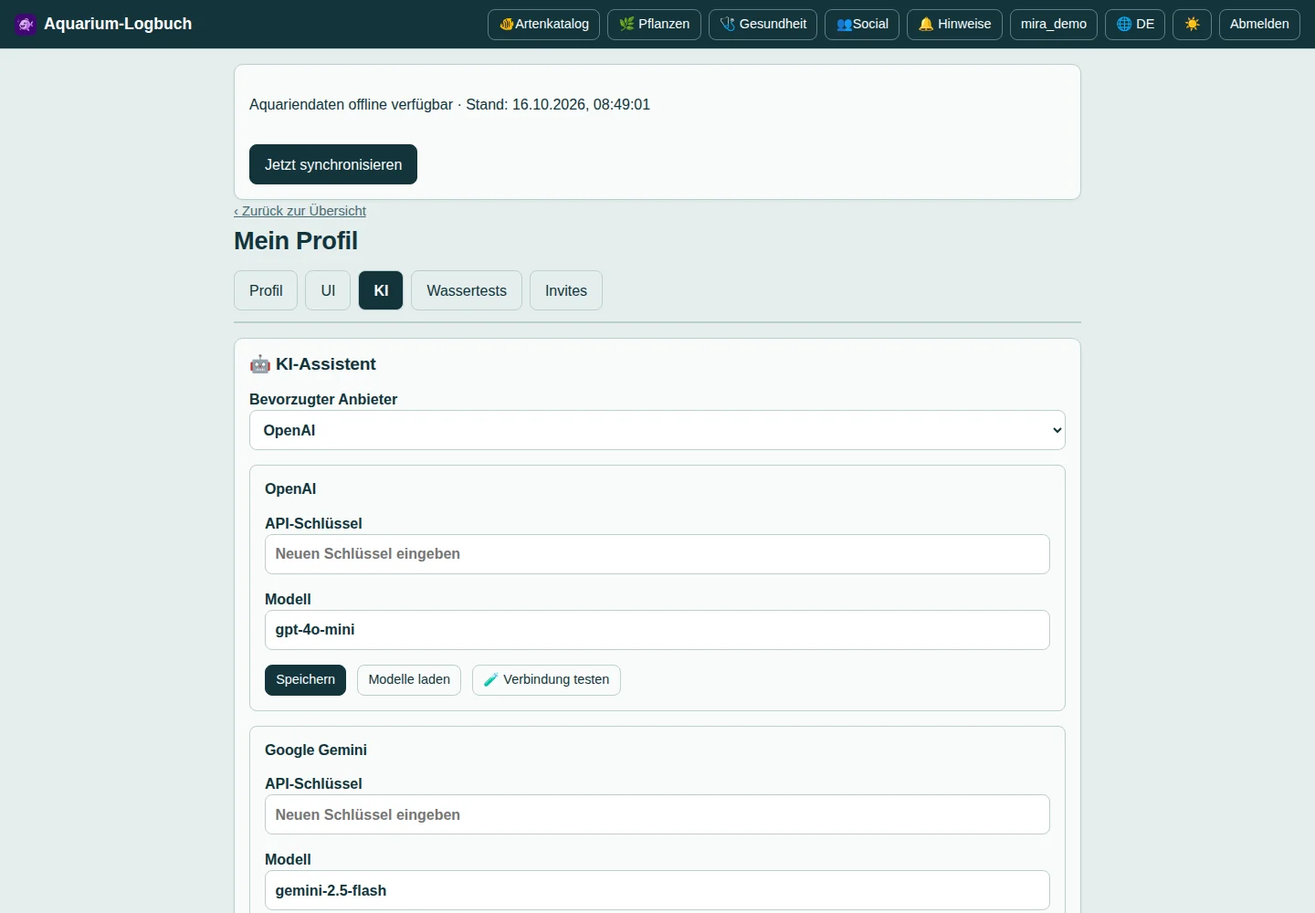
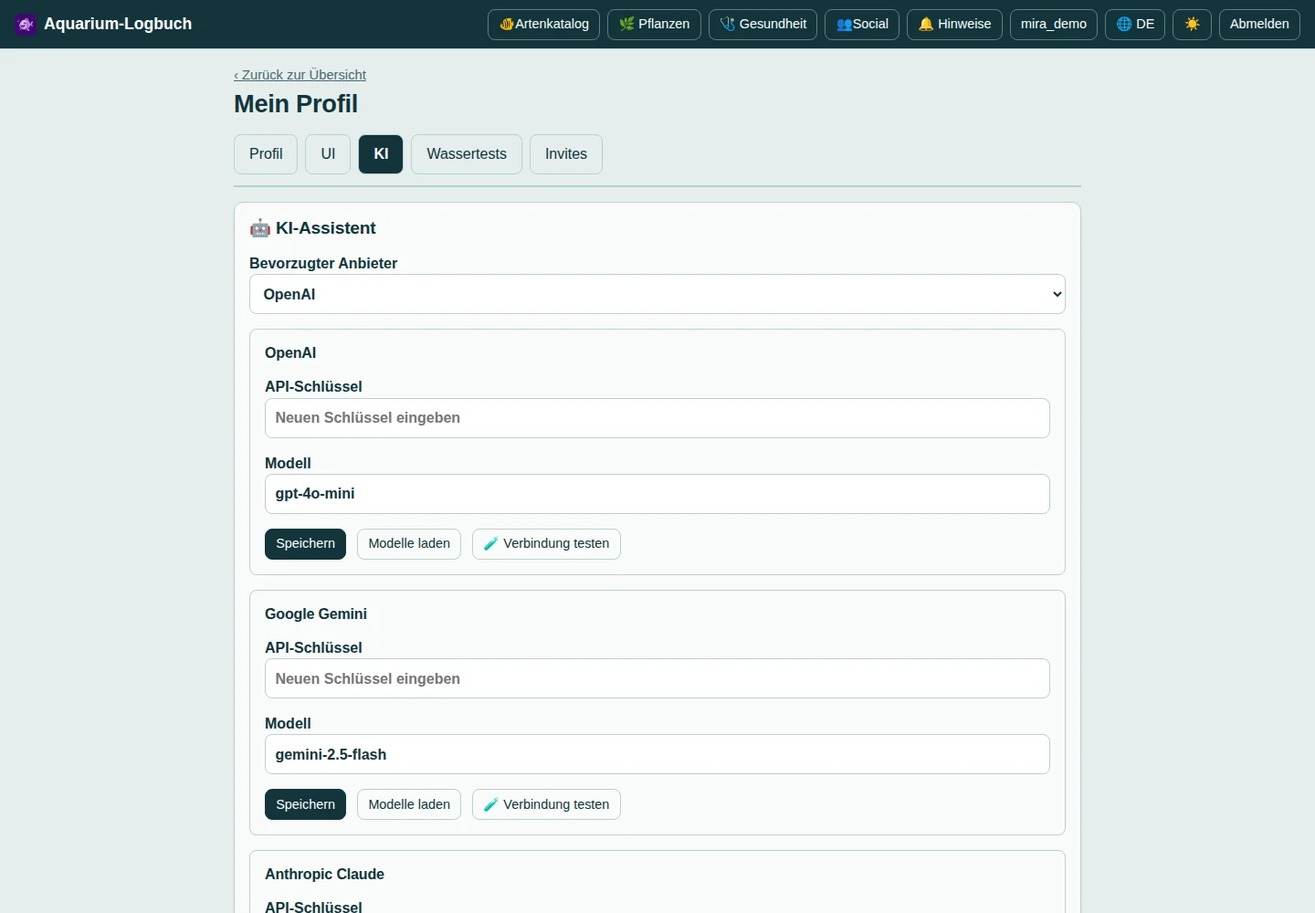
fix(offline): Datenstand und Synchronisieren nur offline anzeigen

Changed region(s): [[0.1562, 0.062, 0.8125, 0.899], [0.1875, 0.93, 0.7812, 1.0]]

diff --git a/public/handbuch/index.html b/public/handbuch/index.html
@@ -33,7 +33,7 @@
 <li><a href="#admin-logs"><span>30</span> Administration: Fehler im Protokoll finden</a></li>
 <li><a href="#backups"><span>31</span> Administration: sichern und wiederherstellen</a></li>
 <li><a href="#hilfe"><span>32</span> Wenn etwas nicht funktioniert</a></li></ol></details><p class="toc-note">Tipp: Mit der Suchfunktion deines Browsers findest du Begriffe auf dieser Seite. Du kannst das Handbuch auch über das Browsermenü drucken.</p></nav><main id="kapitel"><div class="welcome"><strong>Willkommen!</strong><p>Du musst hier nichts der Reihe nach lesen. Wähle links ein Thema und folge den nummerierten Schritten. Auf dem Handy steht das Inhaltsverzeichnis oberhalb der Kapitel.</p><p>Alle abgebildeten Konten und Aquariendaten sind erfunden. Beispielillustrationen dienen nur der Demo. Die tatsächlichen Menüs hängen von deinen Rechten und der Einrichtung deines Servers ab. Bilder lassen sich durch Antippen vergrößern.</p></div><section id="start" aria-labelledby="title-start"><p class="eyebrow">Kapitel 01</p><h2 id="title-start">Anmelden und loslegen</h2><p class="intro">Du brauchst die Adresse deiner Aquarium-App und ein Benutzerkonto. Dieses Handbuch kannst du auch ohne Anmeldung lesen.</p><figure><a href="images/anmeldung.webp" aria-label="Anmelden und loslegen: Screenshot in voller Größe öffnen"><img src="images/anmeldung.webp" width="1440" height="1000" loading="lazy" decoding="async" alt="Die Anmeldeseite. Welche Anmeldewege angeboten werden, legt der Betreiber fest."></a><figcaption>Die Anmeldeseite. Welche Anmeldewege angeboten werden, legt der Betreiber fest. <a href="images/anmeldung.webp">Vergrößern</a></figcaption></figure><ol class="steps"><li>Öffne die Adresse deiner App im Browser. Melde dich mit Benutzername oder E-Mail-Adresse und Passwort an.</li><li>Noch kein Konto? Wähle „Registrieren“, falls diese Möglichkeit freigeschaltet ist. Gib die verlangten Angaben ein und lies und akzeptiere die Nutzungsbedingungen.</li><li>Bestätige deine E-Mail-Adresse über den zugesandten Link. Kommt keine Nachricht an, prüfe den Spamordner und frage den Betreiber nach dem Mailversand.</li><li>Bei einer Einladung öffnest du zuerst den Einladungslink oder verwendest den Einladungscode bei der Registrierung.</li><li>Wenn dein Betreiber Pocket ID oder einen anderen OpenID-Connect-Anbieter eingerichtet hat, kannst du den angebotenen externen Anmeldeweg verwenden.</li></ol><aside class="note"><h3>Passwort vergessen?</h3><p>Nutze die Passwort-zurücksetzen-Funktion auf der Anmeldeseite und öffne den Link aus der E-Mail. Das funktioniert nur bei eingerichtetem Mailversand. Gib dein Passwort und Bestätigungslinks nicht weiter.</p></aside><a class="back-top" href="#inhalt">↑ Zum Inhaltsverzeichnis</a></section>
-<section id="ueberblick" aria-labelledby="title-ueberblick"><p class="eyebrow">Kapitel 02</p><h2 id="title-ueberblick">Deine Übersicht</h2><p class="intro">Nach der Anmeldung siehst du deine Aquarien. Du kannst jederzeit über das Logo links oben hierher zurückkehren.</p><figure><a href="images/uebersicht.webp" aria-label="Deine Übersicht: Screenshot in voller Größe öffnen"><img src="images/uebersicht.webp" width="1440" height="1000" loading="lazy" decoding="async" alt="Die Übersicht mit einem erfundenen Beispielbecken."></a><figcaption>Die Übersicht mit einem erfundenen Beispielbecken. <a href="images/uebersicht.webp">Vergrößern</a></figcaption></figure><ol class="steps"><li>„Eigene Aquarien“ zeigt Becken, die dir gehören. „Mit mir geteilt“ enthält angenommene Freigaben anderer Benutzer.</li><li>Öffne ein Aquarium über seine Karte. Dort siehst du aktuelle Werte, Warnungen, Pflegezyklen und alle weiteren Bereiche.</li><li>Über die Kopfzeile erreichst du Arten, Pflanzen, Gesundheit, Social, Hinweise und dein Profil.</li><li>Wechsle mit der Sprachschaltfläche zwischen Deutsch und Englisch. Über das Farbsymbol wählst du ein helles, dunkles oder systemabhängiges Design.</li><li>Oben informiert dich der Offline-Status, ob deine Aquariendaten lokal verfügbar sind. „Jetzt synchronisieren“ stößt den Datenabgleich an.</li></ol><aside class="note"><h3>Warum erscheinen einige Bereiche erst beim Scrollen?</h3><p>Diagramme, Besatz, Pflanzen und Logbuch werden schrittweise geladen. Scrolle zum gewünschten Bereich. Bei einem Ladefehler kannst du den betroffenen Abschnitt erneut laden.</p></aside><a class="back-top" href="#inhalt">↑ Zum Inhaltsverzeichnis</a></section>
+<section id="ueberblick" aria-labelledby="title-ueberblick"><p class="eyebrow">Kapitel 02</p><h2 id="title-ueberblick">Deine Übersicht</h2><p class="intro">Nach der Anmeldung siehst du deine Aquarien. Du kannst jederzeit über das Logo links oben hierher zurückkehren.</p><figure><a href="images/uebersicht.webp" aria-label="Deine Übersicht: Screenshot in voller Größe öffnen"><img src="images/uebersicht.webp" width="1440" height="1000" loading="lazy" decoding="async" alt="Die Übersicht mit einem erfundenen Beispielbecken."></a><figcaption>Die Übersicht mit einem erfundenen Beispielbecken. <a href="images/uebersicht.webp">Vergrößern</a></figcaption></figure><ol class="steps"><li>„Eigene Aquarien“ zeigt Becken, die dir gehören. „Mit mir geteilt“ enthält angenommene Freigaben anderer Benutzer.</li><li>Öffne ein Aquarium über seine Karte. Dort siehst du aktuelle Werte, Warnungen, Pflegezyklen und alle weiteren Bereiche.</li><li>Über die Kopfzeile erreichst du Arten, Pflanzen, Gesundheit, Social, Hinweise und dein Profil.</li><li>Wechsle mit der Sprachschaltfläche zwischen Deutsch und Englisch. Über das Farbsymbol wählst du ein helles, dunkles oder systemabhängiges Design.</li><li>Online gleicht die App Daten automatisch mit dem Server ab. Nur im Offline-Modus erscheinen der lokale Datenstand und „Jetzt synchronisieren“. Sobald der Server wieder erreichbar ist, werden diese Elemente ausgeblendet. Offene Änderungen oder Fehler bleiben zur Prüfung sichtbar.</li></ol><aside class="note"><h3>Warum erscheinen einige Bereiche erst beim Scrollen?</h3><p>Diagramme, Besatz, Pflanzen und Logbuch werden schrittweise geladen. Scrolle zum gewünschten Bereich. Bei einem Ladefehler kannst du den betroffenen Abschnitt erneut laden.</p></aside><a class="back-top" href="#inhalt">↑ Zum Inhaltsverzeichnis</a></section>
 <section id="aquarium" aria-labelledby="title-aquarium"><p class="eyebrow">Kapitel 03</p><h2 id="title-aquarium">Ein Aquarium anlegen oder ändern</h2><p class="intro">Ein Aquarium ist der gemeinsame Ort für Messwerte, Tiere, Pflanzen, Fotos und Pflegemaßnahmen.</p><figure><a href="images/aquarium-anlegen.webp" aria-label="Ein Aquarium anlegen oder ändern: Screenshot in voller Größe öffnen"><img src="images/aquarium-anlegen.webp" width="1440" height="1000" loading="lazy" decoding="async" alt="Das Formular für ein neues Aquarium."></a><figcaption>Das Formular für ein neues Aquarium. <a href="images/aquarium-anlegen.webp">Vergrößern</a></figcaption></figure><ol class="steps"><li>Wähle in der Übersicht „+ Neues Aquarium“. Trage einen Namen ein, an dem du das Becken wiedererkennst.</li><li>Wähle Süßwasser oder Meerwasser und gib das Volumen in Litern ein. Ergänze bei Bedarf Motto, Beschreibung und Notizen.</li><li>Prüfe die Angaben und speichere das Aquarium. Es erscheint anschließend in deiner Übersicht.</li><li>Zum Ändern öffnest du das Aquarium und wählst „Bearbeiten“. Pflegezyklen kannst du auch im Becken über „Zyklen einstellen“ anpassen.</li><li>Ein Aquarium löschen solltest du nur, wenn du seine Daten nicht mehr brauchst. Beachte die Bestätigung und exportiere oder sichere wichtige Daten vorher.</li></ol><aside class="note"><h3>Wasserart und Besatz gehören zusammen</h3><p>Die Wasserart beeinflusst verfügbare Arten, Pflanzen und Bewertungen. Prüfe vor einer Änderung, ob der vorhandene Besatz dazu passt.</p></aside><a class="back-top" href="#inhalt">↑ Zum Inhaltsverzeichnis</a></section>
 <section id="messung" aria-labelledby="title-messung"><p class="eyebrow">Kapitel 04</p><h2 id="title-messung">Wasserwerte messen und speichern</h2><p class="intro">Du kannst einzelne Werte oder eine ganze Messreihe erfassen. Leere Felder werden nicht als Messung gespeichert.</p><figure><a href="images/messung.webp" aria-label="Wasserwerte messen und speichern: Screenshot in voller Größe öffnen"><img src="images/messung.webp" width="1440" height="1000" loading="lazy" decoding="async" alt="Die Messmaske mit Testauswahl, Reaktionstimern und Wertefeldern."></a><figcaption>Die Messmaske mit Testauswahl, Reaktionstimern und Wertefeldern. <a href="images/messung.webp">Vergrößern</a></figcaption></figure><ol class="steps"><li>Öffne dein Aquarium und wähle „Neue Messung“ oder „Jetzt messen“. Prüfe den Messzeitpunkt.</li><li>Öffne „Wassertests anpassen“ und wähle die tatsächlich benutzten Tests. Du darfst Methoden verschiedener Hersteller kombinieren.</li><li>„Suite übernehmen“ ersetzt die Auswahl durch diese Testsuite. „Suite ergänzen“ ergänzt sie; für denselben Wasserparameter bleibt eine Methode ausgewählt.</li><li>Führe den Wassertest nach seiner Gebrauchsanweisung durch. Starte bei Bedarf den Timer neben dem jeweiligen Parameter. Mehrere Timer können parallel laufen.</li><li>Trage den abgelesenen Wert ein. Ein Dezimalkomma ist erlaubt. Die Farbmarkierung hilft beim Einordnen.</li><li>Ergänze bei Bedarf eine Notiz und wähle „Messung speichern“. Im Aquarium erscheint die Messung im Verlauf und im Logbuch.</li></ol><aside class="note"><h3>Timer und Benachrichtigungen</h3><p>Über „Aktivieren“ kannst du Browser-Benachrichtigungen erlauben. Ton, Vibration und Wachhalten des Bildschirms hängen vom Gerät ab. Lass bei wichtigen Reaktionszeiten die App sichtbar; ein Handy kann Hintergrundprozesse anhalten.</p></aside><aside class="note"><h3>Methodenwechsel während einer Messung</h3><p>Beim Wechsel der Testmethode kann der laufende Timer und ein noch nicht gespeicherter Wert dieses Parameters verworfen werden. Wähle die Methode deshalb möglichst vor dem Test.</p></aside><a class="back-top" href="#inhalt">↑ Zum Inhaltsverzeichnis</a></section>
 <section id="verlauf" aria-labelledby="title-verlauf"><p class="eyebrow">Kapitel 05</p><h2 id="title-verlauf">Diagramme, Tabelle und Warnungen verstehen</h2><p class="intro">Die aktuellen Werte stehen oben im Aquarium. Der Verlauf zeigt dir, wie sich das Wasser über die Zeit entwickelt.</p><figure><a href="images/verlauf.webp" aria-label="Diagramme, Tabelle und Warnungen verstehen: Screenshot in voller Größe öffnen"><img src="images/verlauf.webp" width="1440" height="1000" loading="lazy" decoding="async" alt="Messverlauf mit Zeitraumwahl und einem Beispieldiagramm."></a><figcaption>Messverlauf mit Zeitraumwahl und einem Beispieldiagramm. <a href="images/verlauf.webp">Vergrößern</a></figcaption></figure><ol class="steps"><li>Scrolle im Aquarium zu „Verlauf“. Wähle zum Beispiel sieben Tage, drei Monate, ein Jahr oder den gesamten Zeitraum.</li><li>Für einen eigenen Zeitraum wählst du „Benutzerdefiniert“ und stellst Beginn und Ende ein.</li><li>Vergleiche die Messkurve mit dem Zielbereich und den eingezeichneten kritischen Grenzen. Eine einzelne Messung erklärt noch nicht die Ursache einer Abweichung.</li><li>In der Messwerte-Tabelle findest du Zeitpunkt, Werte und Notizen. Weitere Zeilen werden bei Bedarf nachgeladen.</li><li>Warnungen findest du im Aquarium und unter „Hinweise“. Prüfe den Wert und die Situation im Becken, bevor du den Hinweis bestätigst.</li><li>Eine falsch erfasste Messung kannst du bei ausreichender Berechtigung löschen. Das setzt den bereits verbrauchten Wassertest nicht zurück.</li></ol><aside class="note"><h3>Farben sind eine Orientierung</h3><p>Bewertungen richten sich nach Wasserart, Besatzprofilen und verfügbaren Grenzwerten. Sie ersetzen keine fachliche Beurteilung deines Aquariums.</p></aside><a class="back-top" href="#inhalt">↑ Zum Inhaltsverzeichnis</a></section>
@@ -54,7 +54,7 @@
 <section id="nachkaufen" aria-labelledby="title-nachkaufen"><p class="eyebrow">Kapitel 20</p><h2 id="title-nachkaufen">Nachfüllungen und Nachkauferinnerungen</h2><p class="intro">Die Verbrauchszähler helfen dir, den nächsten Einkauf rechtzeitig zu planen.</p><figure><a href="images/verbrauch.webp" aria-label="Nachfüllungen und Nachkauferinnerungen: Screenshot in voller Größe öffnen"><img src="images/verbrauch.webp" width="1440" height="1000" loading="lazy" decoding="async" alt="Verbrauchsübersicht mit Reichweite und Nachfülloptionen für die gewählte Testsuite."></a><figcaption>Verbrauchsübersicht mit Reichweite und Nachfülloptionen für die gewählte Testsuite. <a href="images/verbrauch.webp">Vergrößern</a></figcaption></figure><ol class="steps"><li>Öffne im Profil „Wassertests“ und scrolle zu „Wassertest-Verbrauch &amp; Nachkaufen“.</li><li>Wähle die passende Testsuite und kontrolliere pro Test die Variante, Gesamtreichweite und den bereits verbrauchten Anteil.</li><li>Bei einer neuen Flasche oder Nachfüllung setzt du nur den betreffenden Zähler zurück.</li><li>Aktiviere bei Bedarf die Nachkauferinnerung. Ab 75 Prozent Verbrauch kann einmal je Nachfüllung eine E-Mail eingereiht werden, wenn Adresse und Mailversand dafür bereit sind.</li></ol><a class="back-top" href="#inhalt">↑ Zum Inhaltsverzeichnis</a></section>
 <section id="social" aria-labelledby="title-social"><p class="eyebrow">Kapitel 21</p><h2 id="title-social">Bilder teilen, liken und kommentieren</h2><p class="intro">Der Social-Bereich ist ein eigener Bilderfeed. Deine privaten Galerie- und Bewohnerfotos werden dort nicht automatisch veröffentlicht.</p><figure><a href="images/social.webp" aria-label="Bilder teilen, liken und kommentieren: Screenshot in voller Größe öffnen"><img src="images/social.webp" width="1440" height="1000" loading="lazy" decoding="async" alt="Ein serverinterner Demo-Beitrag mit künstlicher Beispielillustration."></a><figcaption>Ein serverinterner Demo-Beitrag mit künstlicher Beispielillustration. <a href="images/social.webp">Vergrößern</a></figcaption></figure><ol class="steps"><li>Öffne „Social“. Ohne Anmeldung sind nur öffentliche Beiträge sichtbar; angemeldete Benutzer sehen zusätzlich serverinterne Beiträge.</li><li>Für einen eigenen Beitrag wählst du ein Bild und schreibst einen Begleittext. Beachte die angezeigten Grenzen für Bild und Text.</li><li>Prüfe die Sichtbarkeit vor dem Veröffentlichen. Neue Beiträge sind zunächst serverintern. Aktiviere „Im öffentlichen Feed anzeigen“ nur, wenn Besucher ohne Anmeldung den Beitrag sehen dürfen.</li><li>Mit dem Herz kannst du einen Beitrag liken und das Like wieder zurücknehmen. Öffne die Kommentare, um mitzulesen oder selbst zu schreiben.</li><li>„Teilen“ verwendet den Teilen-Dialog des Geräts oder kopiert den Beitragslink. Ein interner Link bleibt auch dann anmeldepflichtig.</li><li>Eigene Beiträge und Kommentare kannst du löschen. Administratoren können Inhalte moderieren.</li></ol><aside class="note"><h3>Vor dem Hochladen</h3><p>Verwende nur Bilder, die du veröffentlichen darfst. Prüfe, ob Personen, Adressen, Dokumente oder Zugangsdaten zu sehen sind. Social-Bilder werden serverseitig verkleinert; animierte GIFs werden als Standbild verarbeitet.</p></aside><a class="back-top" href="#inhalt">↑ Zum Inhaltsverzeichnis</a></section>
 <section id="hinweise" aria-labelledby="title-hinweise"><p class="eyebrow">Kapitel 22</p><h2 id="title-hinweise">Benachrichtigungen an einem Ort</h2><p class="intro">Unter „Hinweise“ findest du Reaktionen auf deine Beiträge und Wasserwertwarnungen aus deinen zugänglichen Aquarien.</p><figure><a href="images/hinweise.webp" aria-label="Benachrichtigungen an einem Ort: Screenshot in voller Größe öffnen"><img src="images/hinweise.webp" width="1440" height="1000" loading="lazy" decoding="async" alt="Der zentrale Hinweisbereich. Ein leerer Bereich bedeutet, dass aktuell keine Hinweise offen sind."></a><figcaption>Der zentrale Hinweisbereich. Ein leerer Bereich bedeutet, dass aktuell keine Hinweise offen sind. <a href="images/hinweise.webp">Vergrößern</a></figcaption></figure><ol class="steps"><li>Öffne die Hinweisschaltfläche in der Kopfzeile.</li><li>Öffne den zugehörigen Beitrag oder das Aquarium, um den Anlass zu prüfen.</li><li>Social-Hinweise kannst du als gelesen markieren. Wasserwertwarnungen kannst du bei ausreichender Berechtigung bestätigen.</li><li>Das Bestätigen dokumentiert die Kenntnisnahme. Es ändert den Messwert nicht und behebt keine Ursache im Becken.</li></ol><a class="back-top" href="#inhalt">↑ Zum Inhaltsverzeichnis</a></section>
-<section id="offline" aria-labelledby="title-offline"><p class="eyebrow">Kapitel 23</p><h2 id="title-offline">Auf dem Handy und ohne Verbindung arbeiten</h2><p class="intro">Öffne die App zuerst online und warte, bis deine Aquariendaten als offline verfügbar angezeigt werden.</p><figure><a href="images/offline.webp" aria-label="Auf dem Handy und ohne Verbindung arbeiten: Screenshot in voller Größe öffnen"><img src="images/offline.webp" width="390" height="844" loading="lazy" decoding="async" alt="Mobile Ansicht ohne Verbindung mit einer noch nicht übertragenen Demo-Messung."></a><figcaption>Mobile Ansicht ohne Verbindung mit einer noch nicht übertragenen Demo-Messung. <a href="images/offline.webp">Vergrößern</a></figcaption></figure><ol class="steps"><li>Nutze auf dem Handy die HTTPS-Adresse deiner App. Eine HTTP-Adresse im Heimnetz reicht für die Offline-Funktionen nicht aus.</li><li>Du kannst die App über das Browsermenü zum Startbildschirm hinzufügen. Auf iPhone und Android unterscheiden sich die Namen der Menüpunkte.</li><li>Warte beim ersten Online-Start auf den Abgleich. Kataloge und Bilder können zusätzlich Zeit benötigen.</li><li>Ohne Verbindung kannst du synchronisierte Aquarien ansehen und unterstützte Mess-, Pflege- und Bearbeitungsaktionen lokal vormerken.</li><li>Die Offline-Anzeige zeigt offene Änderungen. Lass die App beim Wiederverbinden geöffnet und nutze bei Bedarf „Jetzt synchronisieren“.</li><li>Warte, bis keine offenen Änderungen mehr angezeigt werden, bevor du das Gerät wechselst oder Browserdaten löschst.</li></ol><aside class="note"><h3>Was braucht weiterhin Internet?</h3><p>Neue Anmeldung, Kontosicherheit, KI, Einladungen und Freigaben, Social und Administration benötigen eine Verbindung. Kataloge stehen offline erst nach dem Herunterladen bereit. Ein Betriebssystem kann eine geschlossene oder im Hintergrund befindliche App anhalten.</p></aside><aside class="note"><h3>Wenn zwei Geräte dasselbe ändern</h3><p>Die App zeigt einen Konflikt. Vergleiche lokalen und Serverstand. „Lokalen Stand übernehmen“ versucht deine Fassung auf der neuen Basis zu speichern; ein neuer Konflikt ist möglich. „Verwerfen“ entfernt die lokale Aktion und gegebenenfalls abhängige Aktionen. Unabhängig neu erfasste Einträge verschiedener Geräte bleiben getrennt.</p></aside><aside class="note"><h3>Lokale Daten sind keine Sicherung</h3><p>Noch nicht übertragene Aktionen liegen nur auf diesem Gerät und fehlen in Server-Backups. Browserdaten können gelöscht werden. Synchronisiere deshalb regelmäßig. Melde dich nach einem Kontowechsel neu an, wenn ein anderer Tab deine Sitzung geändert hat.</p></aside><a class="back-top" href="#inhalt">↑ Zum Inhaltsverzeichnis</a></section>
+<section id="offline" aria-labelledby="title-offline"><p class="eyebrow">Kapitel 23</p><h2 id="title-offline">Auf dem Handy und ohne Verbindung arbeiten</h2><p class="intro">Öffne die App zuerst online und warte, bis der automatische Abgleich deiner Aquariendaten abgeschlossen ist.</p><figure><a href="images/offline.webp" aria-label="Auf dem Handy und ohne Verbindung arbeiten: Screenshot in voller Größe öffnen"><img src="images/offline.webp" width="390" height="844" loading="lazy" decoding="async" alt="Mobile Ansicht ohne Verbindung mit einer noch nicht übertragenen Demo-Messung."></a><figcaption>Mobile Ansicht ohne Verbindung mit einer noch nicht übertragenen Demo-Messung. <a href="images/offline.webp">Vergrößern</a></figcaption></figure><ol class="steps"><li>Nutze auf dem Handy die HTTPS-Adresse deiner App. Eine HTTP-Adresse im Heimnetz reicht für die Offline-Funktionen nicht aus.</li><li>Du kannst die App über das Browsermenü zum Startbildschirm hinzufügen. Auf iPhone und Android unterscheiden sich die Namen der Menüpunkte.</li><li>Warte beim ersten Online-Start auf den Abgleich. Kataloge und Bilder können zusätzlich Zeit benötigen.</li><li>Ohne Verbindung kannst du synchronisierte Aquarien ansehen und unterstützte Mess-, Pflege- und Bearbeitungsaktionen lokal vormerken.</li><li>Ohne Serververbindung siehst du den lokalen Datenstand, offene Änderungen und „Jetzt synchronisieren“. Bei Wiederverbindung werden die Daten automatisch abgeglichen; Datenstand und Schaltfläche verschwinden wieder. Lass die App dafür geöffnet.</li><li>Warte, bis keine offenen Änderungen mehr angezeigt werden, bevor du das Gerät wechselst oder Browserdaten löschst.</li></ol><aside class="note"><h3>Was braucht weiterhin Internet?</h3><p>Neue Anmeldung, Kontosicherheit, KI, Einladungen und Freigaben, Social und Administration benötigen eine Verbindung. Kataloge stehen offline erst nach dem Herunterladen bereit. Ein Betriebssystem kann eine geschlossene oder im Hintergrund befindliche App anhalten.</p></aside><aside class="note"><h3>Wenn zwei Geräte dasselbe ändern</h3><p>Die App zeigt einen Konflikt. Vergleiche lokalen und Serverstand. „Lokalen Stand übernehmen“ versucht deine Fassung auf der neuen Basis zu speichern; ein neuer Konflikt ist möglich. „Verwerfen“ entfernt die lokale Aktion und gegebenenfalls abhängige Aktionen. Unabhängig neu erfasste Einträge verschiedener Geräte bleiben getrennt.</p></aside><aside class="note"><h3>Lokale Daten sind keine Sicherung</h3><p>Noch nicht übertragene Aktionen liegen nur auf diesem Gerät und fehlen in Server-Backups. Browserdaten können gelöscht werden. Synchronisiere deshalb regelmäßig. Melde dich nach einem Kontowechsel neu an, wenn ein anderer Tab deine Sitzung geändert hat.</p></aside><a class="back-top" href="#inhalt">↑ Zum Inhaltsverzeichnis</a></section>
 <section id="updates" aria-labelledby="title-updates"><p class="eyebrow">Kapitel 24</p><h2 id="title-updates">Updates ohne überraschendes Neuladen</h2><p class="intro">Eine neue App-Version bedeutet nicht automatisch, dass du die Oberfläche neu laden musst.</p><figure><a href="images/updates.webp" aria-label="Updates ohne überraschendes Neuladen: Screenshot in voller Größe öffnen"><img src="images/updates.webp" width="1440" height="1000" loading="lazy" decoding="async" alt="Der Update-Dialog der echten Anwendung; ein älterer geladener Frontend-Stand wurde in der Demo simuliert."></a><figcaption>Der Update-Dialog der echten Anwendung; ein älterer geladener Frontend-Stand wurde in der Demo simuliert. <a href="images/updates.webp">Vergrößern</a></figcaption></figure><ol class="steps"><li>Wenn sich Frontend-Dateien geändert haben, erscheint „Neue Version verfügbar“. Beende laufende Messungen und speichere Eingaben.</li><li>Warte gegebenenfalls, bis das Update vorbereitet ist. „Jetzt laden“ aktiviert die vorbereitete Fassung und lädt diesen Tab neu.</li><li>Mit „Später“ kannst du zunächst weiterarbeiten. Eine andere neue Fassung kann erneut angeboten werden.</li><li>Reine Änderungen an Arten-, Pflanzen- oder Gesundheitsdaten werden separat abgeglichen. Sie benötigen keinen Frontend-Update-Dialog.</li><li>Bei einem fehlgeschlagenen Update stelle die Verbindung wieder her und versuche es erneut. Andere offene Tabs können noch ihre bisherige Fassung nutzen.</li></ol><aside class="note"><h3>Kataloge werden nicht bei jedem Klick neu heruntergeladen</h3><p>Bereits vorhandene Offline-Kataloge werden regulär höchstens alle zwölf Stunden geprüft. Bei einem fehlgeschlagenen Katalogabgleich gibt es eine Wiederholungsmöglichkeit. Neue Daten erscheinen nach erfolgreichem Abgleich in den betroffenen Ansichten.</p></aside><a class="back-top" href="#inhalt">↑ Zum Inhaltsverzeichnis</a></section>
 <section id="einrichtung" aria-labelledby="title-einrichtung"><p class="eyebrow">Kapitel 25</p><h2 id="title-einrichtung">Für Betreiber: die erste Einrichtung</h2><p class="intro">Bei einer leeren Installation führt der Einrichtungs-Assistent durch die ersten Einstellungen. Danach verwaltest du die App im Admin-Bereich.</p><figure><a href="images/einrichtung.webp" aria-label="Für Betreiber: die erste Einrichtung: Screenshot in voller Größe öffnen"><img src="images/einrichtung.webp" width="1905" height="2053" loading="lazy" decoding="async" alt="Der Einrichtungs-Assistent einer isolierten, leeren Demo-Installation."></a><figcaption>Der Einrichtungs-Assistent einer isolierten, leeren Demo-Installation. <a href="images/einrichtung.webp">Vergrößern</a></figcaption></figure><ol class="steps"><li>Öffne die neue Installation und lege das erste Administratorkonto an. Verwende eine erreichbare E-Mail-Adresse und ein eigenes starkes Passwort.</li><li>Wähle, wer sich registrieren darf: offen, per Einladung oder gar nicht. Du kannst den Modus später ändern.</li><li>Richte SMTP für E-Mail-Versand ein oder lasse ihn zunächst deaktiviert. Ohne Mailversand funktionieren Bestätigungsmails, Passwort-Reset und Mail-Erinnerungen nicht zuverlässig.</li><li>Konfiguriere bei Bedarf automatische Backups und bewahre das Sicherungspasswort sicher auf.</li><li>Schließe die Einrichtung ab. Für öffentliche Nutzung richte die korrekte öffentliche HTTPS-Adresse und gegebenenfalls den Reverse Proxy ein.</li></ol><aside class="note"><h3>Installieren oder aktualisieren</h3><p>Die Installation und Serverkonfiguration beschreibt die technische Dokumentation im Repository. Dieses Nutzerhandbuch erklärt die Bedienung. Docker-Befehle und Serverzugänge gehören in die Hände des Betreibers.</p></aside><a class="back-top" href="#inhalt">↑ Zum Inhaltsverzeichnis</a></section>
 <section id="admin" aria-labelledby="title-admin"><p class="eyebrow">Kapitel 26</p><h2 id="title-admin">Administration: Benutzer und Registrierung</h2><p class="intro">Der Admin-Bereich ist nur für berechtigte Administratorkonten sichtbar. Normale Benutzer brauchen ihn für die Aquarienpflege nicht.</p><figure><a href="images/admin.webp" aria-label="Administration: Benutzer und Registrierung: Screenshot in voller Größe öffnen"><img src="images/admin.webp" width="1440" height="1000" loading="lazy" decoding="async" alt="Die Benutzerverwaltung des Demo-Administrators."></a><figcaption>Die Benutzerverwaltung des Demo-Administrators. <a href="images/admin.webp">Vergrößern</a></figcaption></figure><ol class="steps"><li>Öffne „Admin“ in der Kopfzeile. Unter „Userverwaltung“ suchst du Konten, legst Benutzer an oder bearbeitest die angebotenen Kontodaten.</li><li>Vergib Administratorrechte nur an Personen, die Serverdaten und Benutzer verwalten dürfen. Prüfe vor einer Löschung, welche Daten betroffen sind.</li><li>Unter „Einladung &amp; Registrierung“ stellst du den Registrierungsmodus ein und verwaltest Codes und E-Mail-Einladungen.</li><li>Prüfe Gültigkeit und Verwendungslimit, bevor du eine Einladung verschickst. Nicht mehr benötigte Einladungen kannst du widerrufen.</li><li>Unter „Metriken“ findest du die angebotenen zusammengefassten Nutzungswerte. Ein gegebenenfalls verlangtes Statistikpasswort ist getrennt von einem normalen Benutzerpasswort.</li></ol><a class="back-top" href="#inhalt">↑ Zum Inhaltsverzeichnis</a></section>

diff --git a/test/frontend_offline_status.test.js b/test/frontend_offline_status.test.js
@@ -1,0 +1,55 @@
+'use strict';
+const test = require('node:test');
+const assert = require('node:assert/strict');
+const fs = require('node:fs');
+const vue = require('vue');
+const { renderToString } = require('vue/server-renderer');
+const { parse, compileScript } = require('vue/compiler-sfc');
+const ts = require('typescript');
+
+function fixture() {
+  const state = vue.reactive({ offline: false, pending: [], workspaceUpdatedAt: '2026-10-16T08:00:00Z', workspaceError: '', catalogError: '', error: '', photoProgress: '', syncing: false, workspaceSyncing: false });
+  const { descriptor } = parse(fs.readFileSync('public/frontend/components/OfflineStatus.vue', 'utf8'));
+  const script = compileScript(descriptor, { id: 'offline-status-test', inlineTemplate: true });
+  const code = ts.transpileModule(script.content, { compilerOptions: { module: ts.ModuleKind.CommonJS, target: ts.ScriptTarget.ES2022 } }).outputText;
+  const exports = {};
+  const imports = {
+    vue,
+    '../offline-store': { offlineState: state },
+    '../offline-catalogs': { synchronizeCatalogs() {} },
+    '../offline-workspace': { discardWorkspace() {}, rebaseWorkspace() {} },
+    '../state': { t: key => key, language: vue.ref('de'), session: { user: { id: 7 } } },
+    '../offline-sync': { refreshPending() {}, synchronize() {} },
+  };
+  new Function('require', 'exports', code)(name => { assert.ok(imports[name], name);return imports[name]; }, exports);
+  return { state, render: () => renderToString(vue.createSSRApp(exports.default)) };
+}
+test('Offline-Status: Datenstand und Synchronisieren nur ohne Serververbindung, online keine leere Karte', async () => {
+  const f = fixture();
+  assert.doesNotMatch(await f.render(), /<aside|offline\.workspaceReady|offline\.sync/);
+  f.state.offline = true;
+  let html = await f.render();
+  assert.match(html, /offline\.workspaceReady/);assert.match(html, /offline\.sync/);
+  f.state.workspaceUpdatedAt = '';
+  html = await f.render();assert.match(html, /offline\.workspacePreparing/);
+  f.state.offline = false;
+  assert.doesNotMatch(await f.render(), /<aside|offline\.workspacePreparing|offline\.sync/);
+});
+test('Offline-Status: offene Änderungen und Fehler bleiben online sichtbar, Datenstand und Sync-Button nicht', async () => {
+  const f = fixture();
+  f.state.pending.push({ id: 'pending', owner: 7, aquarium: '42', body: { values: { ph: 7.1 }, note: 'Noch nicht übertragen' } });
+  let html = await f.render();
+  assert.match(html, /offline\.pending/);assert.match(html, /Noch nicht übertragen/);
+  assert.doesNotMatch(html, /offline\.workspaceReady|offline\.workspacePreparing|offline\.sync/);
+  f.state.pending = [{ id: 'conflict', owner: 7, kind: 'workspace', path: '/aquariums/42', method: 'PUT', body: { name: 'Lokal' }, createdAt: '2026-10-16T08:00:00Z', conflict: { current: { name: 'Serverstand' }, version: 'changed' } }];
+  html = await f.render();assert.match(html, /offline\.keepLocal/);assert.match(html, /Serverstand/);
+  assert.doesNotMatch(html, /offline\.workspaceReady|offline\.workspacePreparing|offline\.sync/);
+  f.state.pending = [];
+  for (const field of ['workspaceError', 'catalogError', 'error']) {
+    f.state[field] = 'Abgleich fehlgeschlagen';
+    html = await f.render();assert.match(html, /Abgleich fehlgeschlagen/);
+    assert.doesNotMatch(html, /offline\.workspaceReady|offline\.workspacePreparing|offline\.sync/);
+    f.state[field] = '';
+  }
+  assert.doesNotMatch(await f.render(), /<aside/);
+});

diff --git a/public/frontend/components/OfflineStatus.vue b/public/frontend/components/OfflineStatus.vue
@@ -24,9 +24,11 @@ function describe(body: Record<string, any>) {
 }
 </script>
 <template>
-  <aside class="card stack" aria-live="polite">
-    <p v-if="offlineState.workspaceUpdatedAt">{{ t('offline.workspaceReady') }} {{ new Date(offlineState.workspaceUpdatedAt).toLocaleString() }}</p>
-    <p v-else>{{ t('offline.workspacePreparing') }}</p>
+  <aside v-if="offlineState.offline || offlineState.pending.length || offlineState.workspaceError || offlineState.catalogError || offlineState.error" class="card stack" aria-live="polite">
+    <template v-if="offlineState.offline">
+      <p v-if="offlineState.workspaceUpdatedAt">{{ t('offline.workspaceReady') }} {{ new Date(offlineState.workspaceUpdatedAt).toLocaleString() }}</p>
+      <p v-else>{{ t('offline.workspacePreparing') }}</p>
+    </template>
     <p v-if="offlineState.photoProgress">{{ t('offline.photos') }} {{ offlineState.photoProgress }}</p>
     <p v-if="offlineState.offline || offlineState.pending.length">{{ offlineState.offline ? t('offline.offline') : t('offline.pending', { count: offlineState.pending.length }) }}</p>
     <p v-if="offlineState.workspaceError" role="alert">{{ t('offline.workspaceError') }} {{ offlineState.workspaceError }}</p>
@@ -50,6 +52,6 @@ function describe(body: Record<string, any>) {
         <button class="btn ghost" type="button" :disabled="offlineState.syncing" @click="discard(item)">{{ t('offline.discard') }}</button>
       </div>
     </details>
-    <button class="btn" type="button" :disabled="offlineState.syncing || offlineState.workspaceSyncing" @click="synchronize">{{ t('offline.sync') }}</button>
+    <button v-if="offlineState.offline" class="btn" type="button" :disabled="offlineState.syncing || offlineState.workspaceSyncing" @click="synchronize">{{ t('offline.sync') }}</button>
   </aside>
 </template>

diff --git a/CHANGELOG.md b/CHANGELOG.md
@@ -6,9 +6,11 @@ Die bisherige Historie wurde aus den Commit-Beschreibungen übernommen; ältere 
 
 ## Unveröffentlicht
 
-- Öffentliches, ohne Anmeldung erreichbares Nutzerhandbuch unter `/handbuch/` mit 32 Kapiteln, 31 echten Demo-Screenshots, Schrittfolgen, Inhaltsverzeichnis, Handy- und Druckansicht ergänzen. Alle Anwendungsbereiche einschließlich Offline-Konflikten und Administration erklären und im App-Footer verlinken. Statische Auslieferung ohne JavaScript, Tracking oder externe Ressourcen; Bilder nur beim Lesen nachladen und Handbuchdateien aus Frontend-Hash und Offline-Shell heraushalten. Pflegeanleitung, Dokumentationsverweise und Regressionstests für öffentliche Erreichbarkeit, Vollständigkeit und Build-Isolation ergänzen; veraltete technische Angaben zu Offline-Betrieb und Administratorrollen korrigieren.
+- Lokalen Datenstand und „Jetzt synchronisieren“ ausschließlich im Offline-Modus anzeigen und die Statuskarte bei gesunder Serververbindung ausblenden. Offene Änderungen, Konflikte und Fehler bleiben auch online sichtbar; der automatische Datenabgleich läuft weiter. Darstellungstests sowie Handbuchtexte und betroffene Demo-Screenshots aktualisieren.
 
 ## 0.3.0-ALPHA
+
+- 2026-10-16 · Öffentliches, ohne Anmeldung erreichbares Nutzerhandbuch unter `/handbuch/` mit 32 Kapiteln, 31 echten Demo-Screenshots, Schrittfolgen, Inhaltsverzeichnis, Handy- und Druckansicht ergänzen. Alle Anwendungsbereiche einschließlich Offline-Konflikten und Administration erklären und im App-Footer verlinken. Statische Auslieferung ohne JavaScript, Tracking oder externe Ressourcen; Bilder nur beim Lesen nachladen und Handbuchdateien aus Frontend-Hash und Offline-Shell heraushalten. Pflegeanleitung, Dokumentationsverweise und Regressionstests für öffentliche Erreichbarkeit, Vollständigkeit und Build-Isolation ergänzen; veraltete technische Angaben zu Offline-Betrieb und Administratorrollen korrigieren (`5fe2045361a9b64887a1d152111765b24e93faa7`).
 
 - 2026-10-16 · Minor-Versionsbasis auf `0.3.0-ALPHA` erhöhen, Revision und Patch zurücksetzen und Paketmetadaten angleichen. Deutsche und englische README um die neuen Funktionen für Offline-Erfassung, Offline-Kataloge, lokale Diagnose und CSV-Verarbeitung, getrennte Updates, Synchronisierung und mobile Betriebsgrenzen ergänzen; keine feste Versionsangabe in die README aufnehmen. Architektur- und Sicherheitsvorgaben für das neue App-Konzept in `AGENTS.md` festhalten (`841cd6c330d9347ed0ee22c118e4112831fba220`).
 
